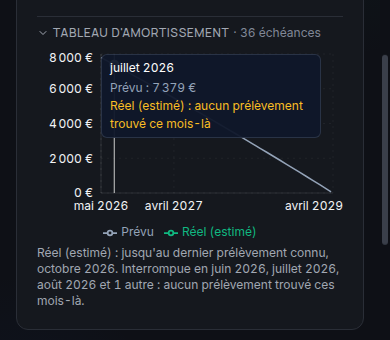
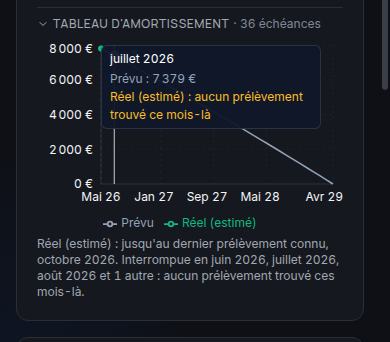
fix(L182): tests de l'infobulle et de la date des doublons, garde robuste, Nouveautés L182 et L179 (revue r1)
Majeur 1 — Nouveautés :
- Entrée L182 (docs/nouveautes/2026-11-20-credits-mois-ecrits-une-seule-facon.md)
  avec deux captures 1440 de la démo locale : « Charge crédits par mois »
  (axe « Déc 25 »… « Nov 26 », infobulle « octobre 2026 », note en forme
  longue) et amortissement (axe « Mai 26 »…, infobulle « juillet 2026 »).
- Entrée L179 : le texte ne dit plus que l'axe écrit « juillet 2026 » ; les
  deux captures sont refaites sur le rendu actuel (axe « Mai 26 », même jeu :
  quatre mois retirés au crédit CETELEM) et leur texte alternatif suit.
- Compilées à la main au format de cadence news (cadence non disponible
  dans ce run ; même compilation que les entrées L180/L178, vérifiée à
  l'identique), puis nouveautes-tailles.mjs et npm run plan.

Majeur 2 — infobulle de « Charge crédits par mois » : le mock de recharts
ne remplace plus ResponsiveContainer par null ; il donne une taille fixe au
graphique et remplace Tooltip par un relais (displayName Tooltip) qui garde
ses propriétés. Le test appelle labelFormatter et exige monthLabel.
Contrôle négatif : labelFormatter={monthAxisLabel} → test rouge
(« novembre 2026 » attendu, « Nov 26 » reçu). Les tests existants de ce
fichier tournent désormais avec le graphique rendu (tous verts).

Mineurs :
- Garde de month-label.test.ts : interdit le nom formatMonth(Short) (appel,
  référence, import renommé), l'option month textuelle entre guillemets ou
  gabarit, Intl.DateTimeFormat et tous les noms de mois français en dur ;
[…]

diff --git a/frontend/public/nouveautes-data/index.html b/frontend/public/nouveautes-data/index.html
@@ -20,15 +20,23 @@ code { font-size: 13px; padding: 1px 4px; border-radius: 4px; background: var(--
 </style>
 </head>
 <body>
-<header><h1>finance-tracker — nouveautés</h1><p class="meta">Généré le 2026-11-20 09:00 par cadence</p></header>
+<header><h1>finance-tracker — nouveautés</h1><p class="meta">Généré le 2026-11-20 09:31 par cadence</p></header>
 <main>
+<article id="2026-11-20-credits-mois-ecrits-une-seule-facon">
+  <h2>Crédits : un mois s'écrit en entier, et en court seulement sous les graphiques</h2>
+  <p class="meta"><time datetime="2026-11-20">2026-11-20</time> · L182</p>
+  <p>Sur la page Crédits, un mois s'écrit maintenant d'une seule façon selon l'endroit où on le lit. En entier (« juillet 2026 ») dans tout ce qui se lit : l'infobulle du graphique « Charge crédits par mois », la note qui liste les mois sans relevé, le tableau lu par les lecteurs d'écran, et l'infobulle et la phrase du tableau d'amortissement. En court (« Juil 26 ») seulement sur l'axe des mois, sous les graphiques, où la place manque.</p>
+<p>Les deux graphiques de la page ont donc le même axe : celui du tableau d'amortissement passe de « juillet 2026 » à « Juil 26 », comme celui de la charge mensuelle. Dans la fenêtre des doublons, la date de création d'un crédit s'écrit en jour, comme les autres dates de la page : « créé 08/07/2026 » au lieu de « créé 08 juil. 26 ».</p>
+  <a href="captures/2026-11-20-charge-credits-mois-axe-et-infobulle.png"><img src="captures/2026-11-20-charge-credits-mois-axe-et-infobulle.png" alt="Graphique « Charge crédits par mois » : axe des mois écrit « Déc 25 », « Jan 26 »… « Nov 26 » ; infobulle titrée « octobre 2026 » avec la mensualité de chaque crédit ; la note dessous dit « 6 mois sans relevé (décembre 2025, janvier 2026, février 2026, mars 2026, avril 2026, novembre 2026) »." loading="lazy"></a>
+  <a href="captures/2026-11-20-amortissement-axe-mois-court.png"><img src="captures/2026-11-20-amortissement-axe-mois-court.png" alt="Graphique d'amortissement du crédit CETELEM : axe des mois écrit « Mai 26 », « Oct 26 »… « Avr 29 », comme le graphique voisin ; infobulle titrée « juillet 2026 » : Prévu 7 379 €, Réel (estimé) 7 379 € ; la phrase dessous dit « jusqu'au dernier prélèvement connu, octobre 2026 »." loading="lazy"></a>
+</article>
 <article id="2026-11-20-amortissement-mois-et-montants">
   <h2>Crédits : graphique d'amortissement, mois et montants écrits pareil partout</h2>
   <p class="meta"><time datetime="2026-11-20">2026-11-20</time> · L179</p>
-  <p>Le graphique du tableau d'amortissement parle maintenant la même langue partout. Un mois s'écrit de la même façon sur l'axe, dans l'infobulle et dans la phrase sous le graphique (« juillet 2026 »), et l'axe des montants affiche des euros (« 6 000 € ») au lieu de « 6k ».</p>
+  <p>Le graphique du tableau d'amortissement écrit maintenant les mois et les montants d'une seule façon par usage. Un mois s'écrit en entier dans l'infobulle et dans la phrase sous le graphique (« juillet 2026 ») ; sur l'axe, il s'écrit en court (« Juil 26 »), comme sur le graphique voisin, depuis la nouveauté « un mois s'écrit en entier, et en court seulement sous les graphiques ». L'axe des montants affiche des euros (« 6 000 € ») au lieu de « 6k ».</p>
 <p>Dans l'infobulle, les montants sont en euros entiers, comme les valeurs de la courbe : « Prévu : 7 379 € » au lieu de « 7 379,00 € », qui laissait croire à une précision au centime. Un mois passé sans prélèvement se lit « aucun prélèvement trouvé ce mois-là ». Un prélèvement tombé avant la première échéance du tableau le dit aussi : « Prévu : pas d'échéance ce mois ». Sur téléphone, l'infobulle ne sort plus de l'écran.</p>
 <p>Quand plusieurs mois de suite manquent, la phrase sous le graphique les cite sans répéter « et » : « Interrompue en juin 2026, juillet 2026, août 2026 et 1 autre ».</p>
-  <a href="captures/2026-11-20-amortissement-plusieurs-mois-manquants.png"><img src="captures/2026-11-20-amortissement-plusieurs-mois-manquants.png" alt="Graphique d'amortissement du crédit CETELEM : axe des mois écrit « mai 2026 », « décembre 2026 »…, axe des montants « 0 € » à « 8 000 € » ; infobulle de juillet 2026 : Prévu 7 379 €, « Réel (estimé) : aucun prélèvement trouvé ce mois-là » ; la phrase dessous dit « Interrompue en juin 2026, juillet 2026, août 2026 et 1 autre : aucun prélèvement trouvé ces mois-là »." loading="lazy"></a>
+  <a href="captures/2026-11-20-amortissement-plusieurs-mois-manquants.png"><img src="captures/2026-11-20-amortissement-plusieurs-mois-manquants.png" alt="Graphique d'amortissement du crédit CETELEM : axe des mois écrit en court, « Mai 26 », « Oct 26 »… « Avr 29 », axe des montants « 0 € » à « 8 000 € » ; infobulle de juillet 2026 : Prévu 7 379 €, « Réel (estimé) : aucun prélèvement trouvé ce mois-là » ; la phrase dessous dit « Interrompue en juin 2026, juillet 2026, août 2026 et 1 autre : aucun prélèvement trouvé ces mois-là »." loading="lazy"></a>
   <a href="captures/2026-11-20-amortissement-infobulle-390.png"><img src="captures/2026-11-20-amortissement-infobulle-390.png" alt="Sur téléphone, la même infobulle de juillet 2026 tient dans l'écran, son texte passe à la ligne." loading="lazy"></a>
 </article>
 <article id="2026-11-19-amortissement-prelevement-decale">

diff --git a/frontend/src/lib/month-label.test.ts b/frontend/src/lib/month-label.test.ts
@@ -21,30 +21,72 @@ describe('L182 — formateur partagé des mois', () => {
 });
 
 /**
- * Garde de source : sur /loans (la route et ses composants), un mois ne
- * s'écrit qu'avec `monthLabel` / `monthAxisLabel`. Tout autre formateur de
- * mois (formatMonth, formatMonthShort, toLocaleDateString / Intl avec une
- * option `month`, table de noms de mois) ferait revenir deux formes sur la page.
+ * Garde de source : sur /loans (la route, ses composants et les modules de
+ * `lib/` qu'ils importent), un mois ne s'écrit qu'avec `monthLabel` /
+ * `monthAxisLabel`. Tout autre formateur de mois (formatMonth, formatMonthShort
+ * — appelé, passé par référence ou importé sous un autre nom —,
+ * toLocaleDateString / Intl avec une option `month` textuelle, table de noms
+ * de mois) ferait revenir deux formes sur la page.
+ * Hors garde : `lib/month-label.ts` (le formateur lui-même) et `lib/utils.ts`,
+ * qui définit formatMonth pour d'autres pages — son usage sur /loans est pris
+ * à l'import, par son nom.
  */
 describe('L182 — /loans n’écrit les mois que par le formateur partagé', () => {
   const src = resolve(__dirname, '..');
   const loanDir = resolve(src, 'components/loans');
-  const files = [
+  const pageFiles = [
     resolve(src, 'routes/loans.tsx'),
     ...readdirSync(loanDir)
       .filter((f) => /\.tsx?$/.test(f) && !/\.test\.tsx?$/.test(f))
       .map((f) => resolve(loanDir, f)),
   ];
+  const horsGarde = new Set(['month-label', 'utils']);
+  const libFiles = [
+    ...new Set(
+      pageFiles.flatMap((f) =>
+        [...readFileSync(f, 'utf8').matchAll(/from\s+['"]@\/lib\/([\w-]+)['"]/g)].map((m) => m[1]),
+      ),
+    ),
+  ]
+    .filter((m) => !horsGarde.has(m))
+    .map((m) => resolve(src, 'lib', `${m}.ts`));
+  const files = [...pageFiles, ...libFiles];
+
+  const q = `['"\`]`;
+  const moisFr =
+    'janvier|janv\\.?|f[ée]vrier|f[ée]vr?\\.?|mars|avril|avr\\.?|mai|juin|juillet|juil\\.?|ao[uû]t|' +
+    'septembre|sept?\\.?|octobre|oct\\.?|novembre|nov\\.?|d[ée]cembre|d[ée]c\\.?';
   const interdits: [string, RegExp][] = [
-    ['formatMonth', /\bformatMonth(Short)?\s*\(/],
-    ['option month de toLocale*/Intl', /\bmonth\s*:\s*['"](long|short|narrow)['"]/],
+    // Le nom suffit : appel, référence (`tickFormatter={formatMonthShort}`),
+    // import renommé (`formatMonthShort as m` nomme toujours la source).
+    ['formatMonth / formatMonthShort', /\bformatMonth(Short)?\b/],
+    ['option month textuelle de toLocale*/Intl', new RegExp(`\\bmonth\\s*:\\s*${q}(long|short|narrow)${q}`)],
     ['Intl.DateTimeFormat', /Intl\.DateTimeFormat/],
-    ['noms de mois en dur', /['"](Juil|Juillet|juil\.?|juillet)['"]/],
+    ['noms de mois en dur', new RegExp(`${q}(${moisFr})${q}`, 'i')],
   ];
 
-  it('la garde lit bien les fichiers de /loans', () => {
-    expect(files.length).toBeGreaterThan(5);
+  it('la garde lit bien les fichiers de /loans et les modules de lib qu’ils importent', () => {
+    expect(pageFiles.length).toBeGreaterThan(5);
     expect(files.some((f) => f.endsWith('loans-monthly-chart.tsx'))).toBe(true);
+    expect(files.some((f) => f.endsWith('lib/amortization-series.ts'))).toBe(true);
+    expect(files.some((f) => f.endsWith('lib/month-label.ts'))).toBe(false);
+  });
+
+  it('les motifs prennent les contournements connus et laissent les dates en jours', () => {
+    const pris = (code: string) => interdits.some(([, re]) => re.test(code));
+    // Contournements relevés par la revue r1 de L182.
+    expect(pris('<XAxis tickFormatter={formatMonthShort} />')).toBe(true);
+    expect(pris("import { formatMonthShort as m } from '@/lib/utils';")).toBe(true);
+    expect(pris('import * as u from "@/lib/utils"; u.formatMonth(7, 2026)')).toBe(true);
+    expect(pris('d.toLocaleDateString("fr-FR", { month: `short` })')).toBe(true);
+    expect(pris("const NOMS = ['janv.', 'févr.', 'mars'];")).toBe(true);
+    expect(pris('const m = "Août";')).toBe(true);
+    expect(pris('const m = `Déc`;')).toBe(true);
+    // Usages légitimes : jour (formatDate), formateur partagé, mot dans une phrase.
+    expect(pris("d.toLocaleDateString('fr-FR', { day: '2-digit', month: '2-digit', year: 'numeric' })")).toBe(false);
+    expect(pris('<Tooltip labelFormatter={monthLabel} />')).toBe(false);
+    expect(pris("const t = 'Échéance prélevée en mai';")).toBe(false);
+    expect(pris('const monthKey = row.month;')).toBe(false);
   });
 
   for (const [nom, re] of interdits) {
@@ -54,11 +96,13 @@ describe('L182 — /loans n’écrit les mois que par le formateur partagé', ()
     });
   }
 
-  it('les deux graphiques passent par le formateur partagé', () => {
+  it('les deux graphiques passent par le formateur partagé (axe court, infobulle longue)', () => {
     for (const f of ['loans-monthly-chart.tsx', 'amortization-chart.tsx']) {
       const code = readFileSync(resolve(loanDir, f), 'utf8');
       expect(code).toContain("from '@/lib/month-label'");
       expect(code).toMatch(/tickFormatter=\{monthAxisLabel\}/);
     }
+    const charge = readFileSync(resolve(loanDir, 'loans-monthly-chart.tsx'), 'utf8');
+    expect(charge).toMatch(/labelFormatter=\{monthLabel\}/);
   });
 });

diff --git a/frontend/src/components/loans/loans-monthly-chart.test.tsx b/frontend/src/components/loans/loans-monthly-chart.test.tsx
@@ -110,9 +110,25 @@ describe('Crédits — graphe des mensualités (L136, WCAG 1.4.1 / 1.1.1)', () =
   });
 });
 
+// jsdom ne mesure rien : le graphique reçoit une taille fixe pour que recharts
+// rende ses enfants. L'infobulle est remplacée par un relais qui garde les
+// propriétés que le graphique lui passe (recharts la reconnaît à son
+// displayName) : son labelFormatter est ainsi appelé tel que l'écran l'appelle.
+const tooltipProps = vi.hoisted(() => ({ last: null as null | Record<string, unknown> }));
 vi.mock('recharts', async (orig) => {
   const m = await orig<typeof import('recharts')>();
-  return { ...m, ResponsiveContainer: () => null };
+  const { cloneElement } = await import('react');
+  const Tooltip = (props: Record<string, unknown>) => {
+    tooltipProps.last = props;
+    return null;
+  };
+  Tooltip.displayName = 'Tooltip';
+  return {
+    ...m,
+    ResponsiveContainer: ({ children }: { children: React.ReactElement }) =>
+      cloneElement(children, { width: 800, height: 288 } as Record<string, unknown>),
+    Tooltip,
+  };
 });
 
 describe('L182 — une seule forme de mois hors de l’axe', () => {
@@ -126,5 +142,17 @@ describe('L182 — une seule forme de mois hors de l’axe', () => {
     const heads = within(table).getAllByRole('rowheader').map((h) => h.textContent ?? '');
     expect(heads).toHaveLength(12);
     heads.forEach((h, i) => expect(h.startsWith(monthLabel(monthKey(11 - i)))).toBe(true));
+  });
+
+  it('l’infobulle titre le mois en « juillet 2026 », pas en forme d’axe', () => {
+    tooltipProps.last = null;
+    render(<LoansMonthlyChart loans={[cofidisA]} />);
+    expect(tooltipProps.last).not.toBeNull();
+    const labelFormatter = tooltipProps.last!.labelFormatter as (label: string, payload: unknown[]) => unknown;
+    expect(typeof labelFormatter).toBe('function');
+    for (const m of [monthKey(0), monthKey(5), monthKey(11)]) {
+      expect(labelFormatter(m, [])).toBe(monthLabel(m));
+      expect(labelFormatter(m, [])).not.toBe(monthAxisLabel(m));
+    }
   });
 });

diff --git a/frontend/src/components/loans/dedupe-modal.test.tsx b/frontend/src/components/loans/dedupe-modal.test.tsx
@@ -1,0 +1,40 @@
+import { describe, expect, it, vi } from 'vitest';
+import { render, screen } from '@testing-library/react';
+import { DedupeModal } from './dedupe-modal';
+
+vi.mock('@/lib/queries', () => {
+  const loan = (id: string, createdAt: string) => ({
+    id,
+    name: `COFIDIS ${id}`,
+    monthlyPayment: 120,
+    occurrencesCount: 6,
+    isActive: true,
+    createdAt,
+  });
+  return {
+    useLoanDuplicates: () => ({
+      data: [
+        {
+          creditor: 'COFIDIS',
+          type: 'classic',
+          reasons: ['Même mensualité'],
+          loans: [loan('a', '2026-07-08T10:00:00.000Z'), loan('b', '2026-03-15T10:00:00.000Z')],
+        },
+      ],
+      isLoading: false,
+      refetch: vi.fn(),
+    }),
+    useMergeLoanDuplicates: () => ({ mutateAsync: vi.fn(), isPending: false }),
+  };
+});
+
+describe('L182 — date de création des doublons', () => {
+  it('s’écrit en jour comme le reste de /loans (jj/mm/aaaa), jamais en mois abrégé', () => {
+    render(<DedupeModal onClose={() => {}} />);
+    const dialog = screen.getByRole('dialog');
+    const texte = dialog.textContent ?? '';
+    expect(texte).toContain('créé 08/07/2026');
+    expect(texte).toContain('créé 15/03/2026');
+    expect(texte).not.toMatch(/créé \d{2} [a-zéû]+\.? \d{2}/i);
+  });
+});

diff --git a/docs/nouveautes/2026-11-20-amortissement-mois-et-montants.md b/docs/nouveautes/2026-11-20-amortissement-mois-et-montants.md
@@ -4,10 +4,10 @@ date: 2026-11-20
 created: 2026-11-20T09:00+01:00
 lots: [L179]
 captures:
-  - { file: captures/2026-11-20-amortissement-plusieurs-mois-manquants.png, alt: "Graphique d'amortissement du crédit CETELEM : axe des mois écrit « mai 2026 », « décembre 2026 »…, axe des montants « 0 € » à « 8 000 € » ; infobulle de juillet 2026 : Prévu 7 379 €, « Réel (estimé) : aucun prélèvement trouvé ce mois-là » ; la phrase dessous dit « Interrompue en juin 2026, juillet 2026, août 2026 et 1 autre : aucun prélèvement trouvé ces mois-là »." }
+  - { file: captures/2026-11-20-amortissement-plusieurs-mois-manquants.png, alt: "Graphique d'amortissement du crédit CETELEM : axe des mois écrit en court, « Mai 26 », « Oct 26 »… « Avr 29 », axe des montants « 0 € » à « 8 000 € » ; infobulle de juillet 2026 : Prévu 7 379 €, « Réel (estimé) : aucun prélèvement trouvé ce mois-là » ; la phrase dessous dit « Interrompue en juin 2026, juillet 2026, août 2026 et 1 autre : aucun prélèvement trouvé ces mois-là »." }
   - { file: captures/2026-11-20-amortissement-infobulle-390.png, alt: "Sur téléphone, la même infobulle de juillet 2026 tient dans l'écran, son texte passe à la ligne." }
 ---
-Le graphique du tableau d'amortissement parle maintenant la même langue partout. Un mois s'écrit de la même façon sur l'axe, dans l'infobulle et dans la phrase sous le graphique (« juillet 2026 »), et l'axe des montants affiche des euros (« 6 000 € ») au lieu de « 6k ».
+Le graphique du tableau d'amortissement écrit maintenant les mois et les montants d'une seule façon par usage. Un mois s'écrit en entier dans l'infobulle et dans la phrase sous le graphique (« juillet 2026 ») ; sur l'axe, il s'écrit en court (« Juil 26 »), comme sur le graphique voisin, depuis la nouveauté « un mois s'écrit en entier, et en court seulement sous les graphiques ». L'axe des montants affiche des euros (« 6 000 € ») au lieu de « 6k ».
 
 Dans l'infobulle, les montants sont en euros entiers, comme les valeurs de la courbe : « Prévu : 7 379 € » au lieu de « 7 379,00 € », qui laissait croire à une précision au centime. Un mois passé sans prélèvement se lit « aucun prélèvement trouvé ce mois-là ». Un prélèvement tombé avant la première échéance du tableau le dit aussi : « Prévu : pas d'échéance ce mois ». Sur téléphone, l'infobulle ne sort plus de l'écran.
 

diff --git a/.cadence/carte.md b/.cadence/carte.md
@@ -20,3 +20,9 @@
 - Tests de cohérence (`amortization-chart.test.tsx`) : lus sur ce que l'écran rend (phrase, infobulles) contre les débits du jeu.
 - Nouveautés compilées à la main (même format que `cadence news build`) quand cadence n'est pas disponible, puis `nouveautes-tailles.mjs` et `npm run plan`.
 - L181 : seuls les mois qui portent une MENSUALITÉ prélevée bloquent un rattachement décalé. Un remboursement anticipé seul dans un mois (hors tableau, 100 % capital) ne prend pas la place de l'échéance : la mensualité décalée y est rattachée. Le mois de l'anticipé garde son point Réel (c'est un débit) ; la phrase dit « Échéance de X prélevée en Y ».
+
+## Décisions (L182 — une forme de mois par usage sur /loans)
+- `lib/month-label.ts` : `monthLabel` (« juillet 2026 ») pour tout ce qui se lit (infobulles, phrase, note des mois sans relevé, tableau accessible) ; `monthAxisLabel` (« Juil 26 ») réservé aux axes des deux graphiques. Dates de jour (doublons « créé 08/07/2026 ») : `formatDate`.
+- Garde de source (`lib/month-label.test.ts`) : fichiers de /loans + modules `@/lib/*` qu'ils importent (hors `month-label` et `utils`) ; interdit le NOM `formatMonth(Short)` (appel, référence, import renommé), l'option `month` textuelle (guillemets ou gabarit), `Intl.DateTimeFormat`, tout nom de mois français en dur. Ses motifs sont eux-mêmes testés sur les contournements connus et sur les usages légitimes.
+- Infobulle de « Charge crédits » testée par un `Tooltip` relais (displayName `Tooltip`, recharts le reconnaît) qui garde ses propriétés : `labelFormatter` est appelé comme l'écran l'appelle.
+- Nouveautés L179 : captures refaites (axe « Mai 26 ») et texte corrigé ; entrée L182 avec deux captures. Compilées à la main au format de cadence news.

diff --git a/docs/nouveautes/2026-11-20-credits-mois-ecrits-une-seule-facon.md b/docs/nouveautes/2026-11-20-credits-mois-ecrits-une-seule-facon.md
@@ -1,0 +1,12 @@
+---
+title: "Crédits : un mois s'écrit en entier, et en court seulement sous les graphiques"
+date: 2026-11-20
+created: 2026-11-20T09:45+01:00
+lots: [L182]
+captures:
+  - { file: captures/2026-11-20-charge-credits-mois-axe-et-infobulle.png, alt: "Graphique « Charge crédits par mois » : axe des mois écrit « Déc 25 », « Jan 26 »… « Nov 26 » ; infobulle titrée « octobre 2026 » avec la mensualité de chaque crédit ; la note dessous dit « 6 mois sans relevé (décembre 2025, janvier 2026, février 2026, mars 2026, avril 2026, novembre 2026) »." }
+  - { file: captures/2026-11-20-amortissement-axe-mois-court.png, alt: "Graphique d'amortissement du crédit CETELEM : axe des mois écrit « Mai 26 », « Oct 26 »… « Avr 29 », comme le graphique voisin ; infobulle titrée « juillet 2026 » : Prévu 7 379 €, Réel (estimé) 7 379 € ; la phrase dessous dit « jusqu'au dernier prélèvement connu, octobre 2026 »." }
+---
+Sur la page Crédits, un mois s'écrit maintenant d'une seule façon selon l'endroit où on le lit. En entier (« juillet 2026 ») dans tout ce qui se lit : l'infobulle du graphique « Charge crédits par mois », la note qui liste les mois sans relevé, le tableau lu par les lecteurs d'écran, et l'infobulle et la phrase du tableau d'amortissement. En court (« Juil 26 ») seulement sur l'axe des mois, sous les graphiques, où la place manque.
+
+Les deux graphiques de la page ont donc le même axe : celui du tableau d'amortissement passe de « juillet 2026 » à « Juil 26 », comme celui de la charge mensuelle. Dans la fenêtre des doublons, la date de création d'un crédit s'écrit en jour, comme les autres dates de la page : « créé 08/07/2026 » au lieu de « créé 08 juil. 26 ».
